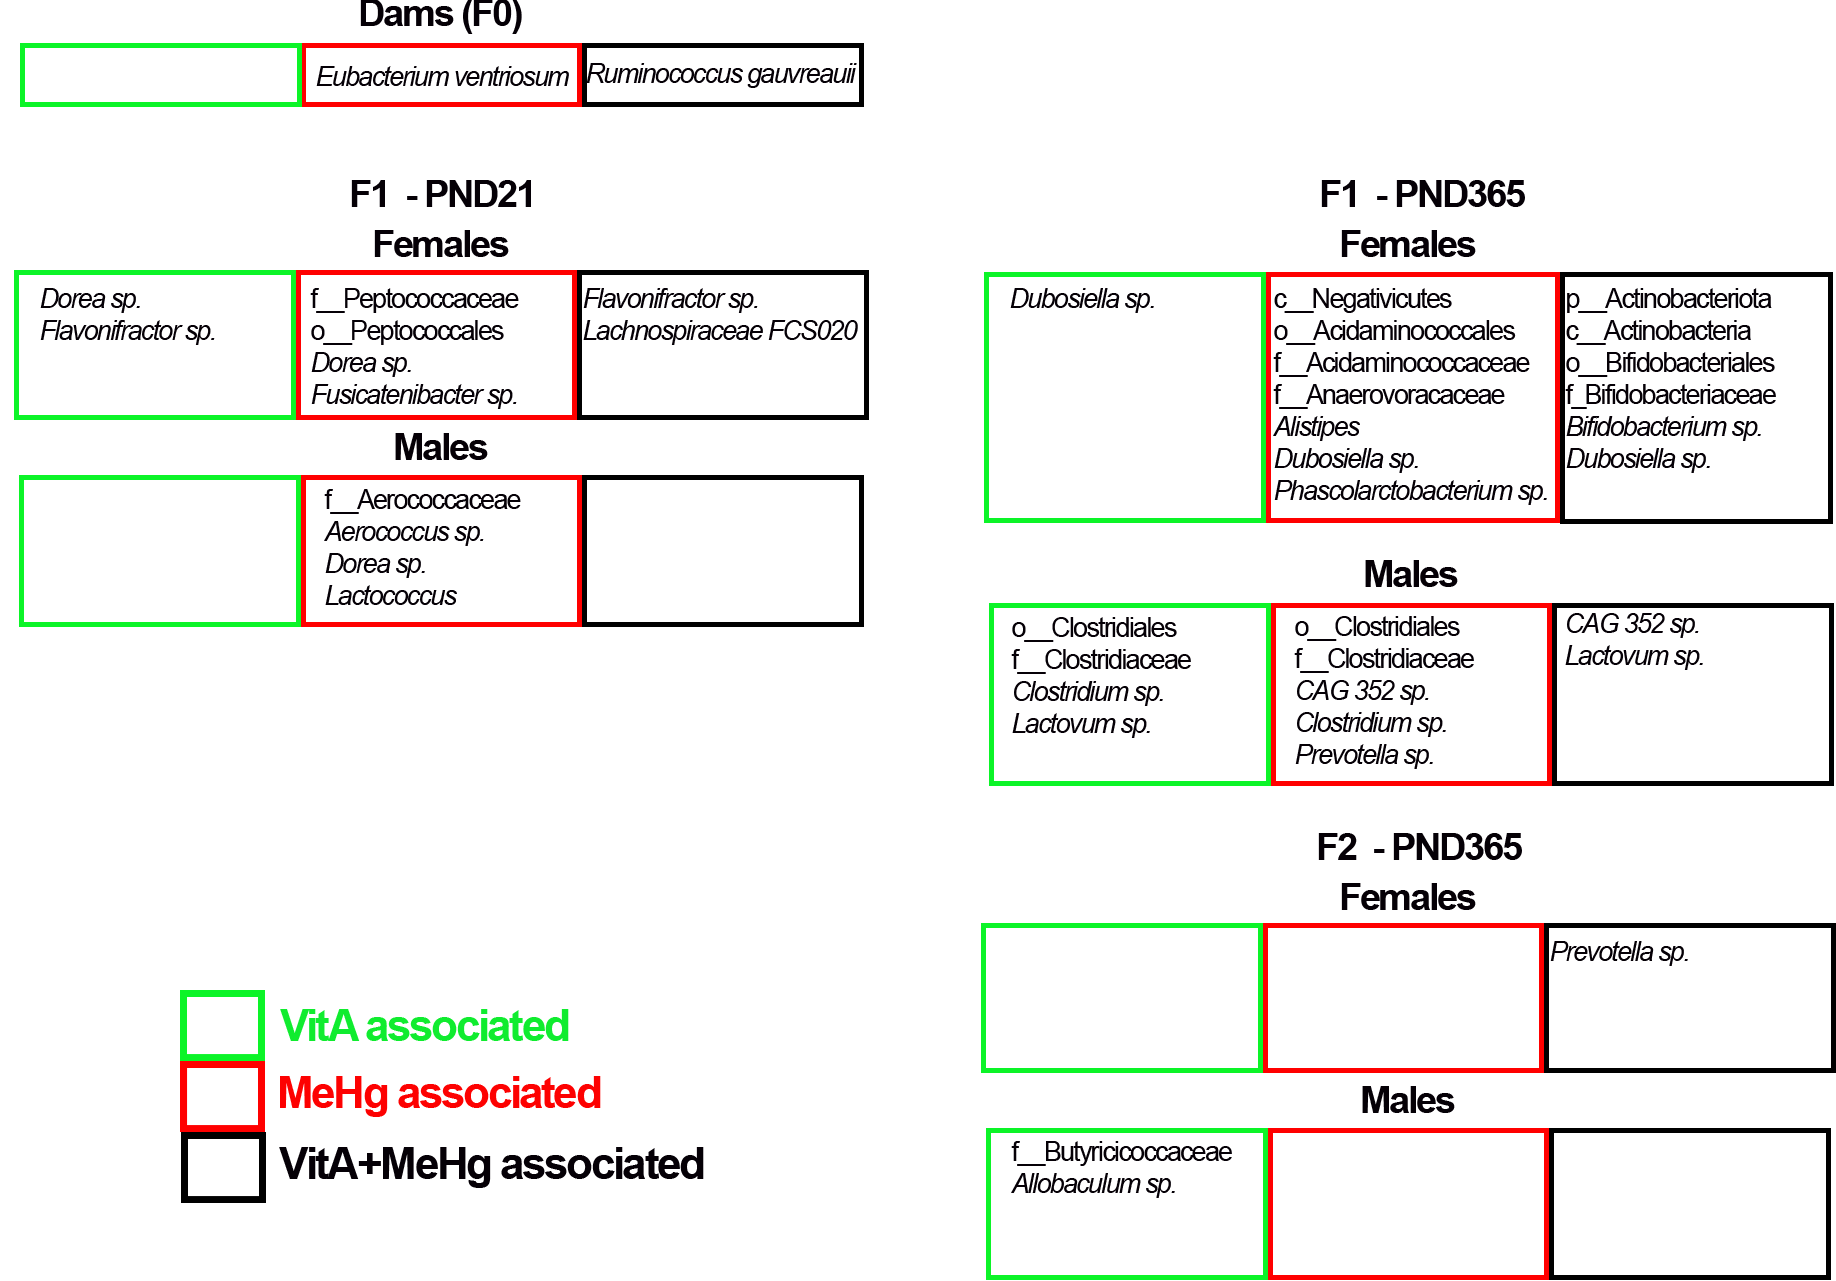
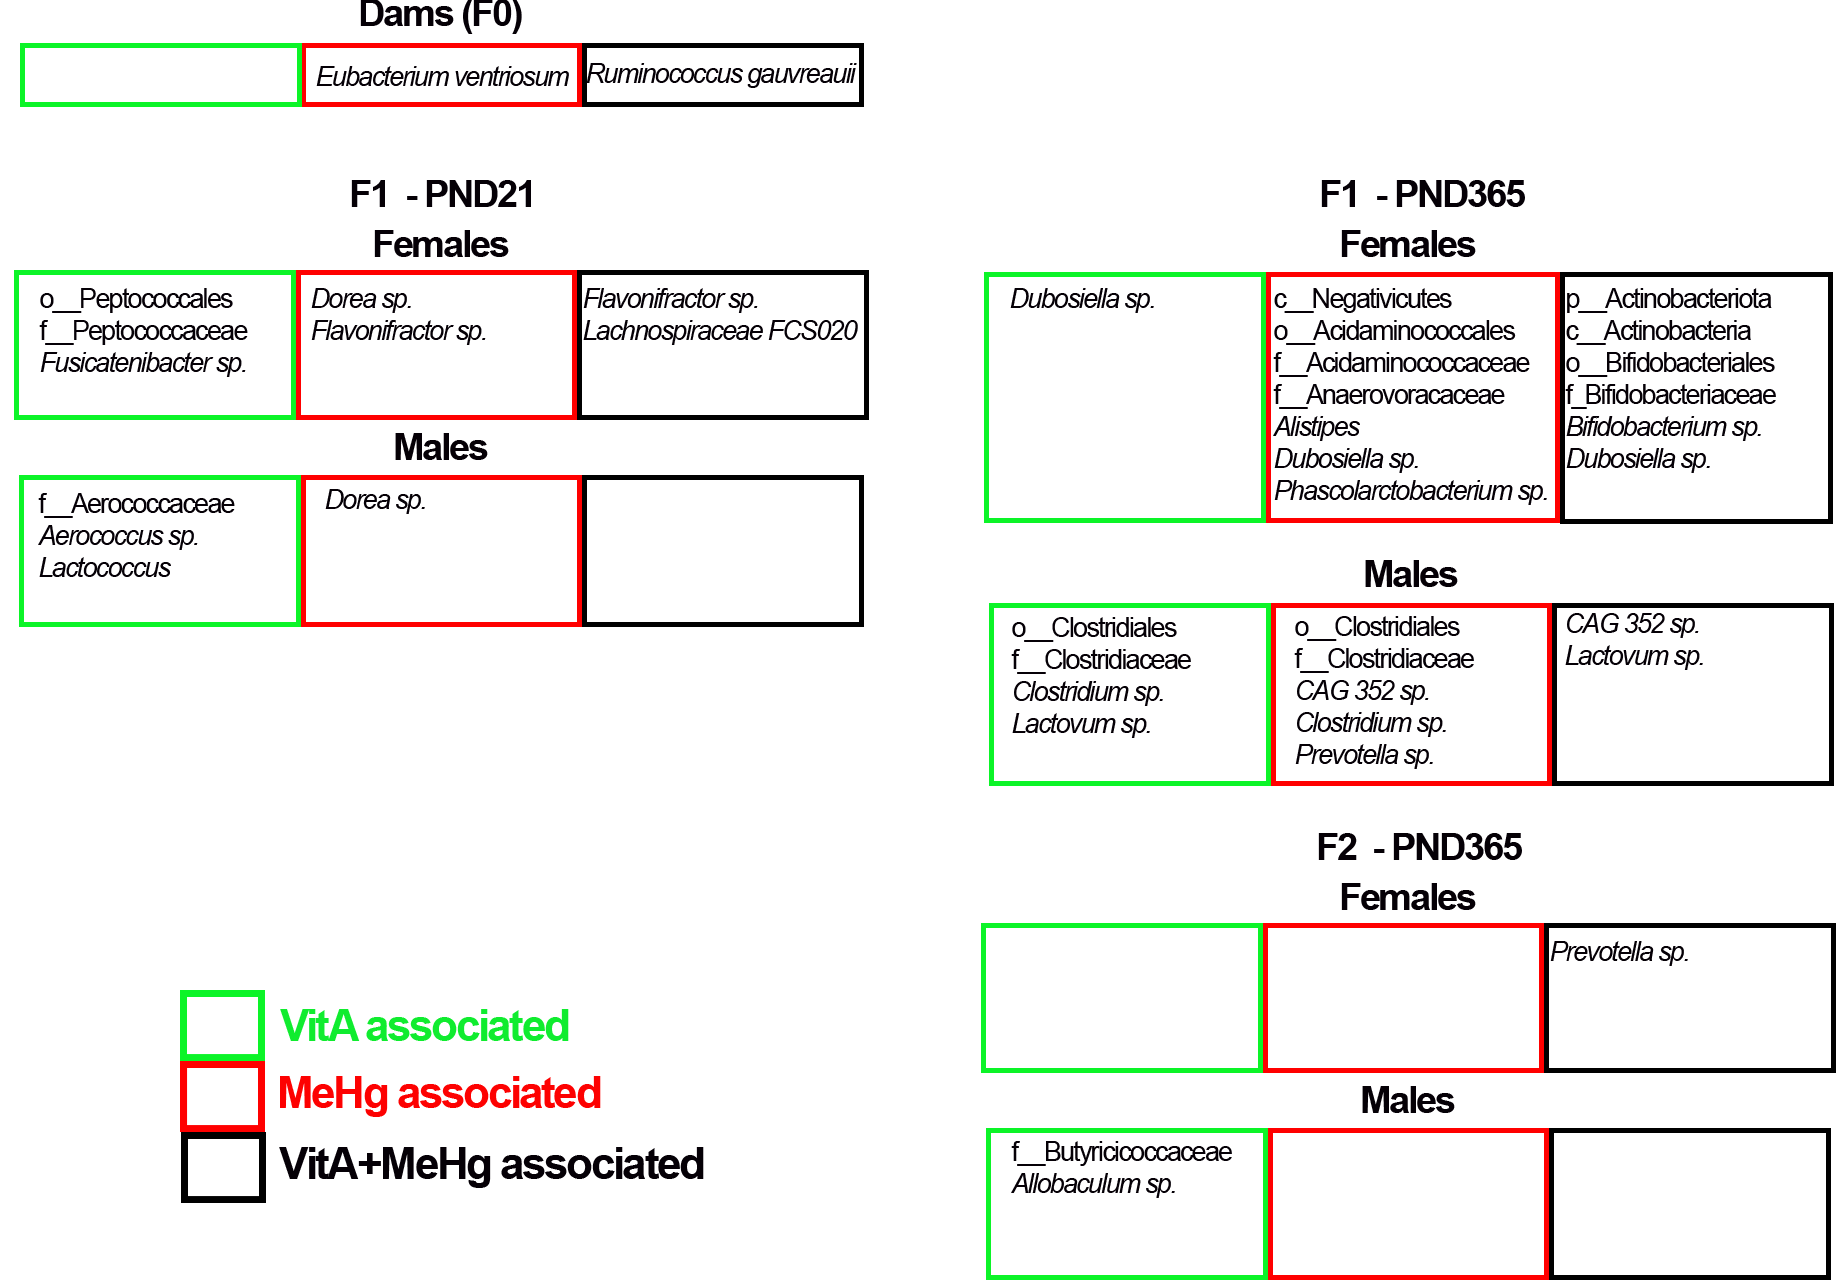
Update corrected figure composites

diff --git a/supplementary_figures/README.md b/supplementary_figures/README.md
@@ -80,13 +80,11 @@ join abundance columns to the relevant manifest, honor
 taxon is tested with a four-group Kruskal-Wallis test followed by all six Dunn
 tests with Benjamini-Hochberg FDR adjustment; only adjusted comparisons at or
 below 0.05 are drawn. No parametric test or normality-based method selection is
-performed. Every workflow is required to use the common treatment order `CN`,
+performed. Every workflow uses the common treatment order `CN`,
 `VitA`, `MeHg`, `VitA+MeHg` and the shared colors `#98F5FF`, `#B3EE3A`,
-`#CD2626`, `#4D4D4D`, respectively. Figure S3 deliberately corrects the
-erroneous character-derived order in the historical PND21 exports while
-matching the palette used by Figures S2, S4, and S5. Its retained composite
-documents the historical assembly and is not the ordering reference for the
-corrected generated panels.
+`#CD2626`, `#4D4D4D`, respectively. Figure S3 generated panels and
+[`Figure_S3_FinalFigure.png`](Figure_S3/output/Figure_S3_FinalFigure.png) use
+this same order and palette.
 
 Generate and validate the panels from the repository root:
 
@@ -103,11 +101,8 @@ The validators independently reproduce the Kruskal-Wallis statistics and
 check the exact omnibus p-values, all Dunn comparison signatures, adjusted
 significance counts, source checksums and schemas, cohort membership and
 treatment counts, the common treatment order and colors, output names, sex-specific
-directories and dimensions, committed PNGs, and retained composite dimensions.
-All 72 archived TIFF panels under `Alberto/images/Abundancias/NONparametric/`
-were inspected during migration; the corrected S3 PNGs intentionally differ
-from their historical exports in treatment order and color assignment. The
-retained composites are
+directories and dimensions, committed PNGs, and final-composite dimensions.
+The authoritative composites are
 [`Figure S3`](Figure_S3/output/Figure_S3_FinalFigure.png),
 [`Figure S4`](Figure_S4/output/Figure_S4_FinalFigure.png), and
 [`Figure S5`](Figure_S5/output/Figure_S5_FinalFigure.png).
@@ -116,7 +111,7 @@ retained composites are
 
 Figure S6 is a manually prepared qualitative synthesis, not the output of a
 computational figure-generation workflow. The author made it after side-by-side
-visual inspection of the supplied final [`Figure 5`](../figures/Figure_5/output/Figure_5_FinalFigure.png)
+visual inspection of the current final [`Figure 5`](../figures/Figure_5/output/Figure_5_FinalFigure.png)
 and [`Figures S2`](Figure_S2/output/Figure_S2_FinalFigure.png),
 [`S3`](Figure_S3/output/Figure_S3_FinalFigure.png),
 [`S4`](Figure_S4/output/Figure_S4_FinalFigure.png), and
@@ -136,8 +131,8 @@ This classification is descriptive and interpretive. Figure S6 does not add a
 formal statistical test, pooled analysis, quantitative selection threshold, or
 automated rule beyond the analyses already displayed in its source figures.
 Consequently, it should be reproduced by repeating the documented visual review
-and manual transcription rather than by running an R script. The repository
-retains only the resulting 1836 x 1281 raster
+and manual transcription rather than by running an R script. The authoritative
+output is the 1836 x 1281 raster
 [`Figure_S6_FinalFigure.png`](Figure_S6/Figure_S6_FinalFigure.png); no editable
 layout file or Figure S6 generator is available.
 

diff --git a/README.md b/README.md
@@ -25,8 +25,8 @@ Sex, generation, treatment, sequencing batch, analysis inclusion, and data-depos
 This repository is under active reproducibility curation.
 
 - Figure 3 panels A-K, Figure 4 panels A-D, Figure 5 panel D, Figure 6 panels A-C, Figure S1 panels A-H, all 75 taxon-abundance panels in Figures S2-S5, panels E of Figures 7 and 8, and all ten KO z-score heatmaps in Figures S8-S16 have portable, tested workflows. The 19 KO-level source tables shared by Figures 7, 8, and S8-S16 also have a portable, regression-tested generator. Their KEGG pathway panels remain retained manual exports prepared with the generated z-score tables as the coloring reference; supplied final composites are retained for visual validation.
-- Figure S3 generated panels correct the erroneous treatment ordering in the historical PND21 exports. Their authoritative order and colors match the other abundance panels: `CN` (`#98F5FF`), `VitA` (`#B3EE3A`), `MeHg` (`#CD2626`), and `VitA+MeHg` (`#4D4D4D`); the historical composite is retained only for provenance.
-- Figure S6 is a retained manual, qualitative synthesis made by visually reviewing Figure 5 and Figures S2-S5. Its interpretive construction and reproducibility boundary are documented in the [`supplementary-figure guide`](supplementary_figures/README.md#figure-s6); it is not presented as the output of a statistical or scripted workflow.
+- Figure S3 generated panels and final composite use the same authoritative treatment order and colors as the other abundance panels: `CN` (`#98F5FF`), `VitA` (`#B3EE3A`), `MeHg` (`#CD2626`), and `VitA+MeHg` (`#4D4D4D`).
+- Figure S6 is a manual, qualitative synthesis made by visually reviewing the current Figure 5 and Figures S2-S5 composites. Its interpretive construction and reproducibility boundary are documented in the [`supplementary-figure guide`](supplementary_figures/README.md#figure-s6); it is not presented as the output of a statistical or scripted workflow.
 - The PICRUSt2 terminal workflow, exact batch-specific inputs, analysis-ready outputs, and weighted-NSTI quality metrics have been harmonized and validated against the supplied pipeline products. Figure 6 uses only the canonical KO predictions and canonical sample manifest.
 - Additional main and supplementary figure workflows will be migrated and validated progressively.
 - Legacy scripts already used as provenance for portable workflows are isolated under [`scripts/legacy_scripts/`](scripts/legacy_scripts/). Unused legacy scripts remain directly under `scripts/` until their corresponding analyses are curated.

diff --git a/figures/README.md b/figures/README.md
@@ -32,7 +32,7 @@
 - Panel C (F1, PND365; females and males) uses [`batch02_illumina-miseq_f1-f2_pnd365_taxon_relative_abundance.csv`](../results/taxon_relative_abundance/batch02_illumina-miseq_f1-f2_pnd365_taxon_relative_abundance.csv) and the corresponding canonical [`sample_manifest.csv`](../data/metadata/batch02_illumina-miseq_f1-f2_pnd365/sample_manifest.csv). It is generated by [`Figure_4/generate_figure_4_c.R`](Figure_4/generate_figure_4_c.R).
 - Panel D (F2, PND365; females and males) uses the same batch 2 [`taxon-relative-abundance table`](../results/taxon_relative_abundance/batch02_illumina-miseq_f1-f2_pnd365_taxon_relative_abundance.csv) and [`sample manifest`](../data/metadata/batch02_illumina-miseq_f1-f2_pnd365/sample_manifest.csv). It is generated by [`Figure_4/generate_figure_4_d.R`](Figure_4/generate_figure_4_d.R).
 - The panel workflows are portable refactors of [`Heatmap_Zscore_MestradoAlberto.R`](../scripts/legacy_scripts/Heatmap_Zscore_MestradoAlberto.R). Preserved `Signif_*.csv` tables under [`results/legacy_summary_tables/figure_4/`](../results/legacy_summary_tables/figure_4/) are validation checkpoints rather than primary inputs. [`validate_figure_4.R`](Figure_4/validate_figure_4.R) checks the canonical sources, significant taxa, treatment means, z-scores, checkpoints, and generated PNG files.
-- Generated panels are written to [`Figure_4/output/`](Figure_4/output/). [`Figure_4_FinalFigure.png`](Figure_4/output/Figure_4_FinalFigure.png) is the manually assembled Photoshop reference composite.
+- Generated panels are written to [`Figure_4/output/`](Figure_4/output/). [`Figure_4_FinalFigure.png`](Figure_4/output/Figure_4_FinalFigure.png) is the current manually assembled Photoshop composite.
 
 ### Figure 5
 

diff --git a/scripts/legacy_scripts/README.md b/scripts/legacy_scripts/README.md
@@ -45,12 +45,9 @@ generators share the validated
 renderer and preserve the legacy four-group Kruskal-Wallis plus six-pair Dunn
 test with FDR adjustment. They recreate all 72 individual source panels as PNG
 files without sourcing the legacy script or assembling the Photoshop
-composites. The historical PND21 block exposed Figure S3 to the incorrect
-character-derived order `CN`, `MeHg`, `VitA`, `VitA+MeHg`. The portable Figure
-S3 workflow intentionally corrects every panel to `CN`, `VitA`, `MeHg`,
-`VitA+MeHg`, assigns the shared `#98F5FF`, `#B3EE3A`, `#CD2626`, and `#4D4D4D`
-fills, and treats the archived
-PND21 exports and composite as provenance rather than as an ordering target.
+composites. Every Figure S3 panel uses the repository-wide treatment order
+`CN`, `VitA`, `MeHg`, `VitA+MeHg` and the shared `#98F5FF`, `#B3EE3A`,
+`#CD2626`, and `#4D4D4D` fills.
 Figure S3-S5 female panels are written to `output/females/` and
 male panels to `output/male/`, while each final composite remains at its output
 root. Their paired validators lock source checksums, cohorts, taxa, exact
